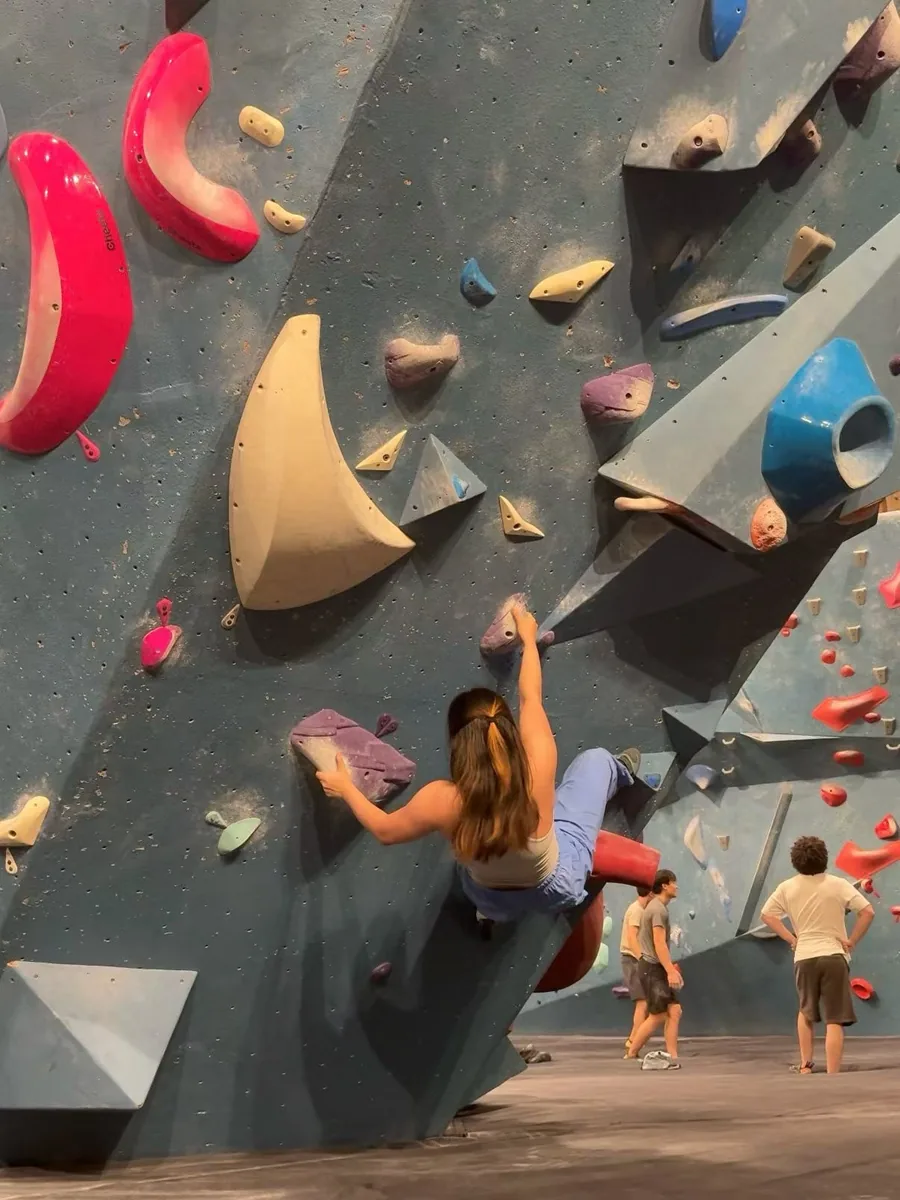
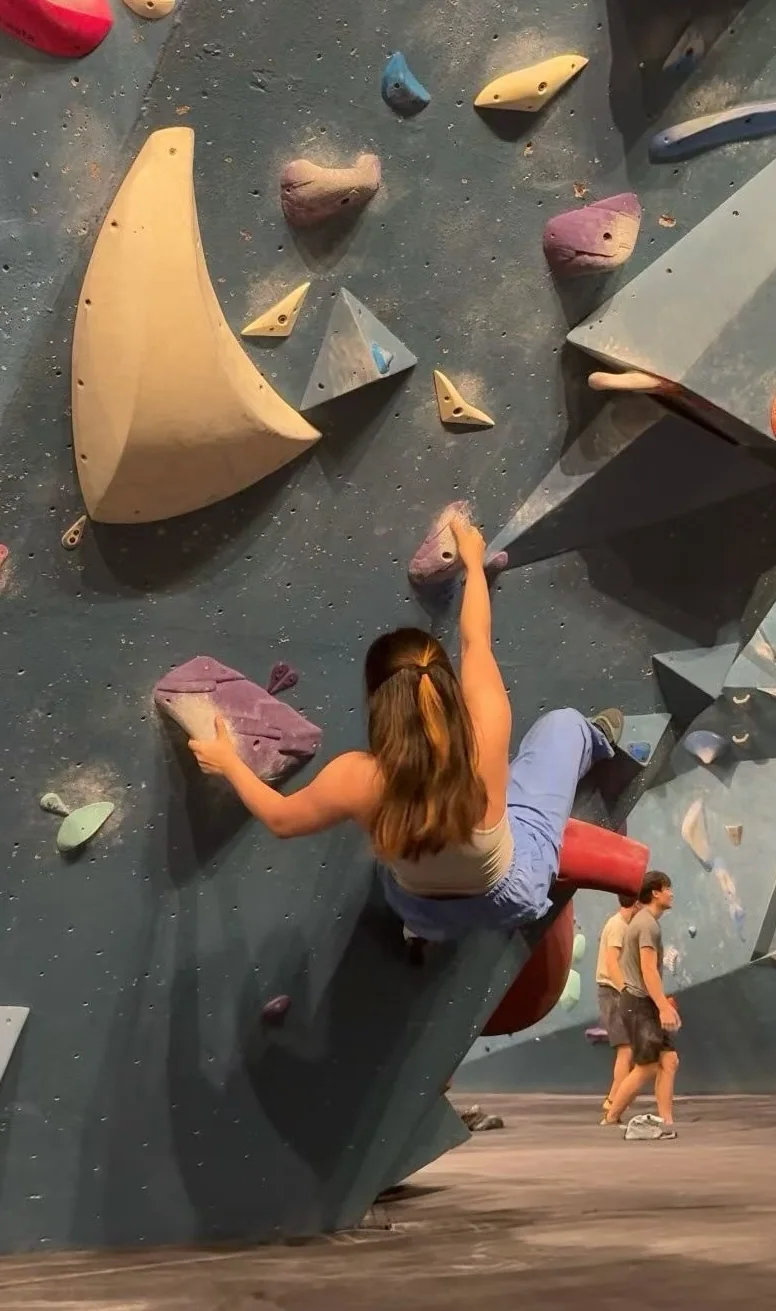
Bouldering: the closer crop
The same climb, cropped in on her rather than the whole wall, so in the
small upright card she is the subject and not a figure in the corner.

diff --git a/home-v2.html b/home-v2.html
@@ -10,7 +10,7 @@
 <link href="https://fonts.googleapis.com/css2?family=Cormorant+Garamond:wght@400;500;600;700&family=Instrument+Sans:wght@400;500;600;700&display=swap" rel="stylesheet" />
 <link rel="icon" type="image/png" href="/assets/img/personal-logo.png" />
 <link rel="stylesheet" href="/assets/style.css" />
-<link rel="stylesheet" href="/assets/home-v2.css?v=202611180122" />
+<link rel="stylesheet" href="/assets/home-v2.css?v=202611180124" />
 </head>
 <body class="hv2">
 
@@ -54,8 +54,8 @@
 </footer>
 <script>document.getElementById("year").textContent = new Date().getFullYear();</script>
 
-<script src="/assets/home-v2-about.js?v=202611180122"></script>
-<script src="/assets/home-v2.js?v=202611180122" defer></script>
+<script src="/assets/home-v2-about.js?v=202611180124"></script>
+<script src="/assets/home-v2.js?v=202611180124" defer></script>
 <script src="/assets/footer-clock.js?v=2026111804" defer></script>
 </body>
 </html>
